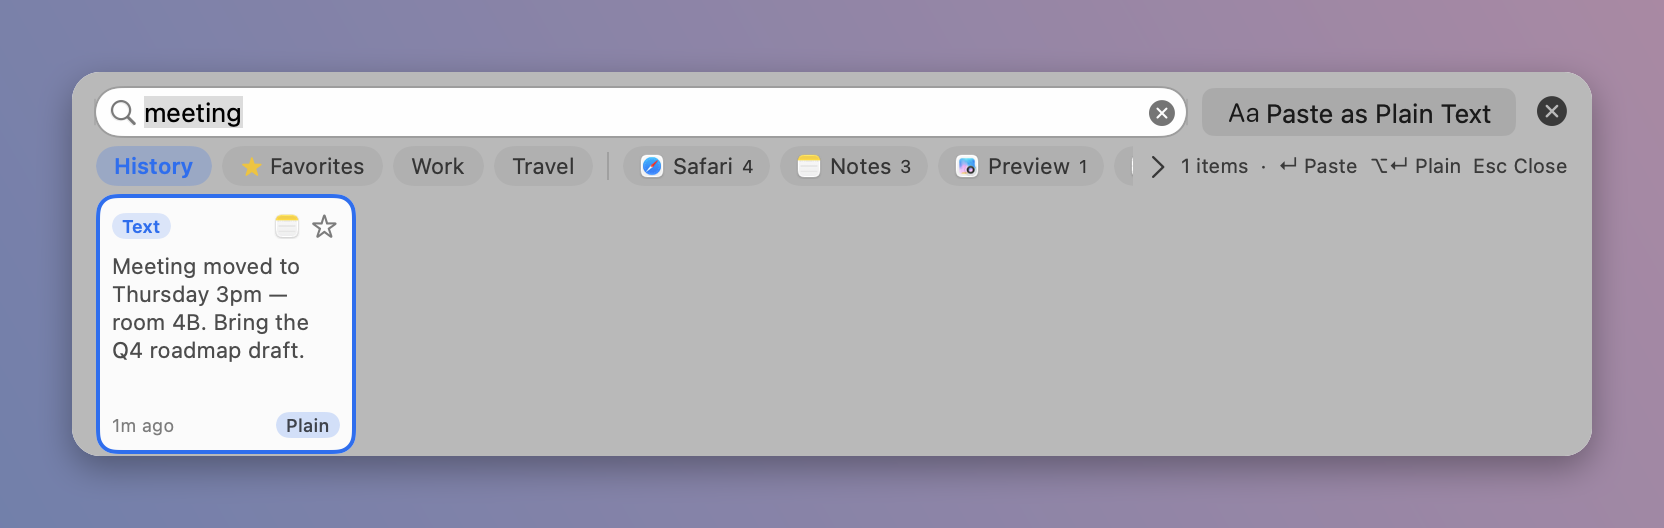
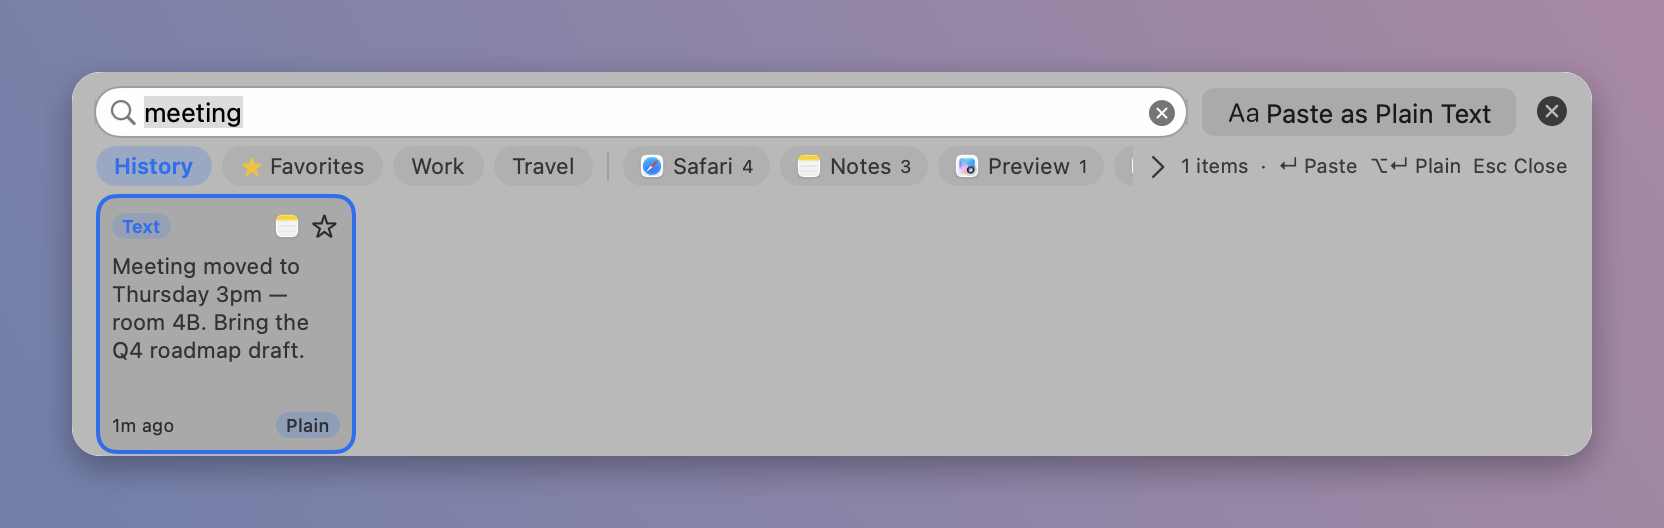
1.2.1: transparent rounded panel corners, translucent cards

Changed region(s): [[0.0625, 0.3636, 0.2188, 0.8788]]

diff --git a/Sources/Pasting/ClipboardPanelController.swift b/Sources/Pasting/ClipboardPanelController.swift
@@ -106,6 +106,7 @@ final class ClipboardPanelController: NSObject, NSSearchFieldDelegate, NSWindowD
         positionPanel()
         panel?.alphaValue = testInvisible ? 0 : 1
         panel?.orderFrontRegardless()
+        panel?.invalidateShadow()
         if !testInvisible {   // tests must never steal the user's keyboard focus
             panel?.makeKey()
             panel?.makeFirstResponder(searchField)
@@ -306,8 +307,13 @@ final class ClipboardPanelController: NSObject, NSSearchFieldDelegate, NSWindowD
         fx.material = .hudWindow
         fx.blendingMode = .behindWindow
         fx.state = .active
+        // Rounded, fully transparent outside the shape: the mask image clips the behind-window
+        // vibrancy (layer.cornerRadius alone doesn't), and the clear container/window let the
+        // window server compute the shadow from the rounded alpha.
+        fx.maskImage = Self.roundedMask(radius: Self.cornerRadius)
         fx.wantsLayer = true
-        fx.layer?.cornerRadius = 14
+        fx.layer?.cornerRadius = Self.cornerRadius
+        fx.layer?.cornerCurve = .continuous
         fx.layer?.masksToBounds = true
 
         let search = NSSearchField()
@@ -339,6 +345,8 @@ final class ClipboardPanelController: NSObject, NSSearchFieldDelegate, NSWindowD
 
         let hosting = NSHostingView(rootView: PanelContentView(model: model, actions: actions))
         hosting.translatesAutoresizingMaskIntoConstraints = false
+        hosting.wantsLayer = true
+        hosting.layer?.backgroundColor = .clear
 
         fx.addSubview(search)
         fx.addSubview(plain)
@@ -358,8 +366,59 @@ final class ClipboardPanelController: NSObject, NSSearchFieldDelegate, NSWindowD
             hosting.trailingAnchor.constraint(equalTo: fx.trailingAnchor),
             hosting.bottomAnchor.constraint(equalTo: fx.bottomAnchor),
         ])
-        panel.contentView = fx
+        let container = TransparentView(frame: fx.frame)
+        container.autoresizingMask = [.width, .height]
+        container.addSubview(fx)
+        panel.contentView = container
         self.panel = panel
+    }
+
+    static let cornerRadius: CGFloat = 14
+
+    /// Resizable 9-slice mask: opaque rounded rect, transparent corners.
+    static func roundedMask(radius r: CGFloat) -> NSImage {
+        let d = r * 2 + 1
+        let img = NSImage(size: NSSize(width: d, height: d), flipped: false) { rect in
+            NSColor.black.setFill()
+            NSBezierPath(roundedRect: rect, xRadius: r, yRadius: r).fill()
+            return true
+        }
+        img.capInsets = NSEdgeInsets(top: r, left: r, bottom: r, right: r)
+        img.resizingMode = .stretch
+        return img
+    }
+
+    /// Test: render the real panel window and sample alpha at corners/center (light + dark).
+    func cornerAlphaReport() -> String {
+        guard let panel else { return "no panel" }
+        var out: [String] = []
+        let savedAlpha = panel.alphaValue, savedOrigin = panel.frame.origin
+        panel.setFrameOrigin(NSPoint(x: -20000, y: -20000))   // off-screen: never flash on the user's display
+        for (name, app) in [("light", NSAppearance(named: .aqua)), ("dark", NSAppearance(named: .darkAqua))] {
+            panel.appearance = app
+            panel.alphaValue = 1
+            panel.contentView?.needsDisplay = true
+            panel.displayIfNeeded()
+            RunLoop.main.run(until: Date().addingTimeInterval(0.25))
+            var parts: [String] = []
+            if let cg = CGWindowListCreateImage(.null, .optionIncludingWindow, CGWindowID(panel.windowNumber), [.boundsIgnoreFraming, .bestResolution]),
+               let rep = Optional(NSBitmapImageRep(cgImage: cg)) {
+                let w = rep.pixelsWide, h = rep.pixelsHigh
+                func a(_ x: Int, _ y: Int) -> String { String(format: "%.2f", rep.colorAt(x: x, y: y)?.alphaComponent ?? -1) }
+                parts.append("window \(w)x\(h) corners TL=\(a(1,1)) TR=\(a(w-2,1)) BL=\(a(1,h-2)) BR=\(a(w-2,h-2)) edgeMid=\(a(w/2,1)) center=\(a(w/2,h/2))")
+            } else { parts.append("window capture unavailable") }
+            if let v = panel.contentView, let rep = v.bitmapImageRepForCachingDisplay(in: v.bounds) {
+                v.cacheDisplay(in: v.bounds, to: rep)
+                let w = rep.pixelsWide, h = rep.pixelsHigh
+                func a(_ x: Int, _ y: Int) -> String { String(format: "%.2f", rep.colorAt(x: x, y: y)?.alphaComponent ?? -1) }
+                parts.append("view TL=\(a(1,1)) TR=\(a(w-2,1)) BL=\(a(1,h-2)) BR=\(a(w-2,h-2)) center=\(a(w/2,h/2))")
+            }
+            out.append("\(name): " + parts.joined(separator: "; "))
+        }
+        panel.appearance = nil
+        panel.alphaValue = savedAlpha
+        panel.setFrameOrigin(savedOrigin)
+        return out.joined(separator: " | ")
     }
 
     private func positionPanel() {
@@ -382,6 +441,8 @@ final class ClipboardPanelController: NSObject, NSSearchFieldDelegate, NSWindowD
     private var isPositioning = false
 
     // User drag-resize: persist width; height maps to card size.
+    func windowDidResize(_ notification: Notification) { panel?.invalidateShadow() }
+
     func windowDidEndLiveResize(_ notification: Notification) {
         guard let panel else { return }
         let card = Double(panel.frame.height - PanelPlacement.chromeHeight)
@@ -537,4 +598,11 @@ final class ClipboardPanelController: NSObject, NSSearchFieldDelegate, NSWindowD
 final class KeyablePanel: NSPanel {
     override var canBecomeKey: Bool { true }
     override var canBecomeMain: Bool { false }
+}
+
+
+/// Plain non-drawing container so nothing paints a rectangular background behind the rounded panel.
+final class TransparentView: NSView {
+    override var isOpaque: Bool { false }
+    override func draw(_ dirtyRect: NSRect) {}
 }

diff --git a/Sources/Pasting/TestMode.swift b/Sources/Pasting/TestMode.swift
@@ -36,6 +36,13 @@ enum TestMode {
             }
             if CommandLine.arguments.contains("scrolltest") { runScrollTest() }
             if CommandLine.arguments.contains("favtest") { runFavTest() }
+            if CommandLine.arguments.contains("cornertest") {
+                Store.shared.replaceAllForTest(makeSynthetic(count: 20, images: 0))
+                let c = ClipboardPanelController.shared
+                c.show(); RunLoop.main.run(until: Date().addingTimeInterval(0.4))
+                AppLog.info("CORNERTEST " + c.cornerAlphaReport())
+                c.hide()
+            }
             if let dir = arg(after: "screenshots") { Screenshots.run(into: URL(fileURLWithPath: dir)) }
         }
     }

diff --git a/Sources/Pasting/PanelViews.swift b/Sources/Pasting/PanelViews.swift
@@ -275,7 +275,7 @@ struct CardView: View, Equatable {
         .padding(8)
         .frame(width: size, height: size)
         .background(RoundedRectangle(cornerRadius: 10, style: .continuous)
-            .fill(Color(nsColor: .controlBackgroundColor).opacity(selected ? 0.95 : 0.6)))
+            .fill(Color.primary.opacity(selected ? 0.10 : 0.05)))
         .overlay(RoundedRectangle(cornerRadius: 10, style: .continuous)
             .strokeBorder(selected ? Color.accentColor : Color.primary.opacity(0.08), lineWidth: selected ? 2 : 1))
     }

diff --git a/CHANGELOG.md b/CHANGELOG.md
@@ -4,6 +4,16 @@ All notable changes to this project are documented here.
 The format is based on [Keep a Changelog](https://keepachangelog.com/en/1.1.0/),
 and this project adheres to [Semantic Versioning](https://semver.org/spec/v2.0.0.html).
 
+## [1.2.1] - 2026-10-12
+
+### Fixed
+- The bottom panel no longer shows a white rectangle behind its rounded corners.
+  - The window and content container are fully transparent.
+  - The vibrancy view is clipped with a 9-slice rounded mask image as well as a layer corner radius, and the hosting view is clear.
+  - The shadow is recomputed on show and resize so it follows the rounded shape.
+  - Verified by rendering the panel window: corner alpha is 0.00 in both light and dark mode, and the center is 1.00.
+- Cards use a translucent fill instead of an opaque white `controlBackgroundColor`, so they blend with the panel.
+
 ## [1.2.0] - 2026-10-12
 
 ### Added
